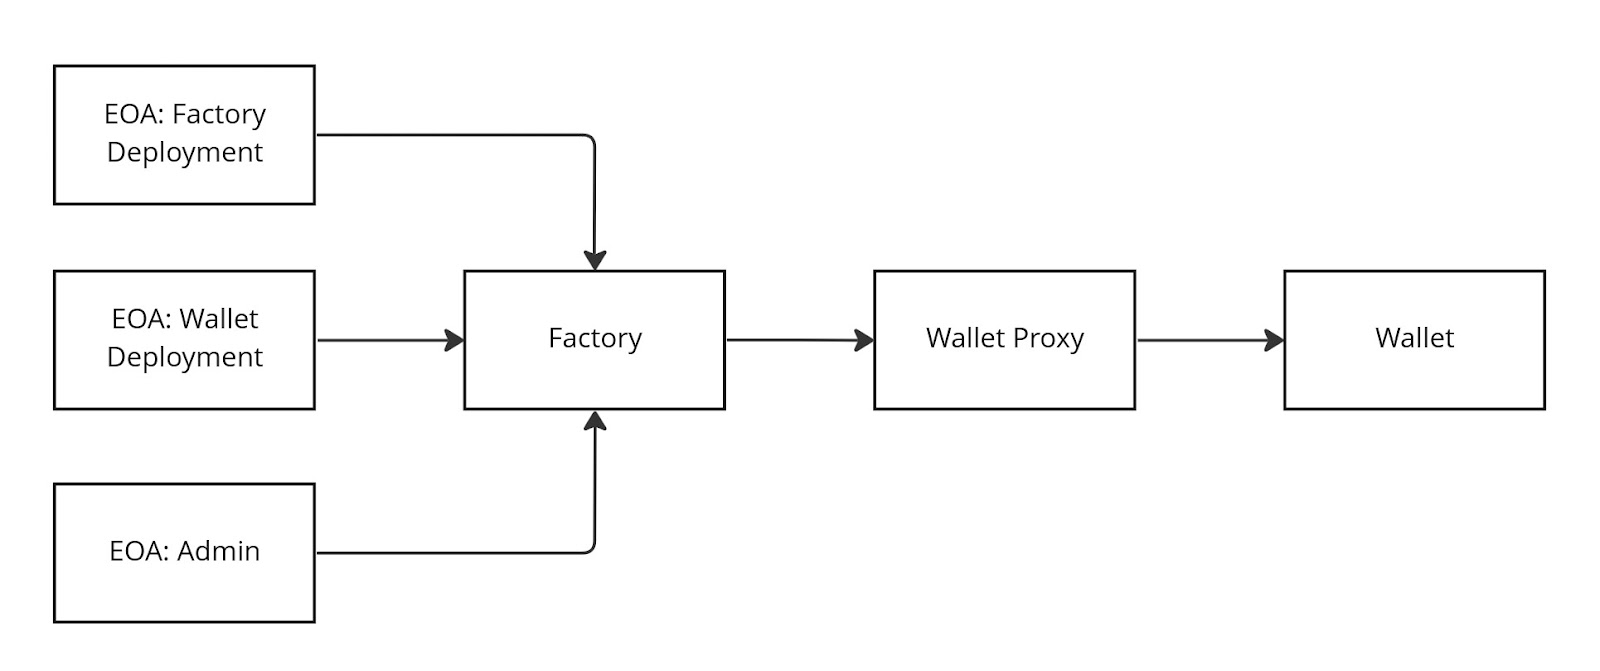
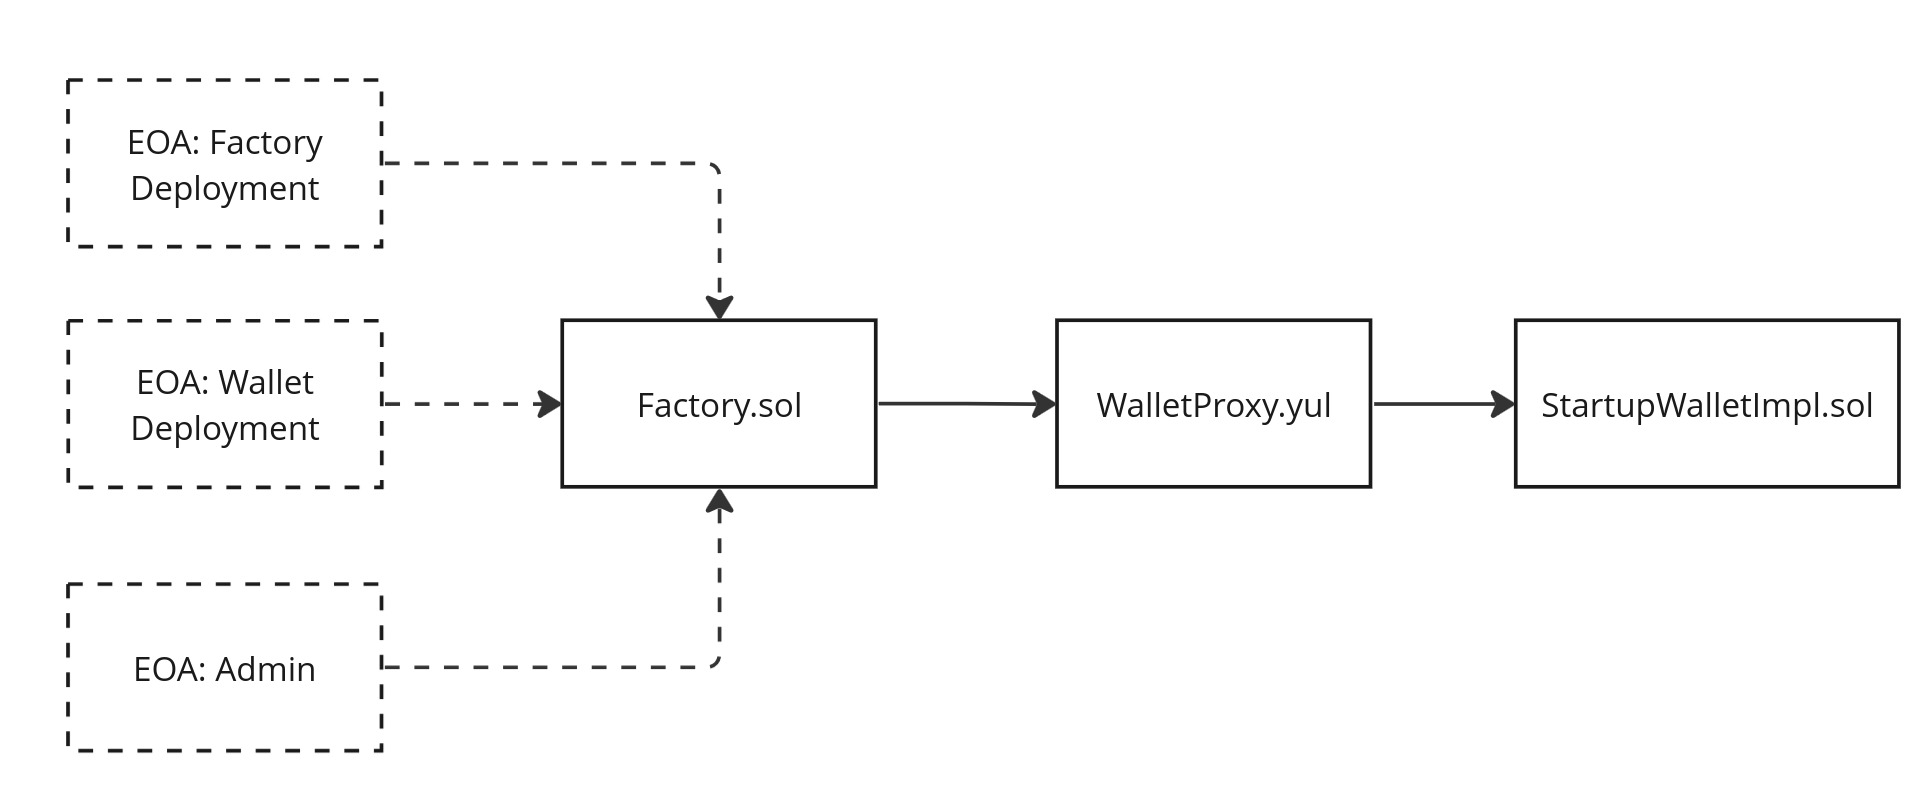
Addressing feedback from review.

diff --git a/AUDITING.md b/AUDITING.md
@@ -6,32 +6,34 @@ As part of building the [Immutable Passport][passport] wallet, we are implementi
 
 The need for SCWs is driven by wanting to make accounts more secure in the case of externally owned accounts private key exfiltration on mobile platforms through malicious apps embedding Passport wallets through WebViews. The extra security comes from the wallets being multisig and verifying transactions using signatures from two parties: Immutable itself and the user. In this case, even when the user key is compromised, exfiltration of funds is still not possible.
 
-Immutable signs transactions after an OTP 2FA, which translates to 2FA security for the user assets. The wallets are counterfactual because since we use a StarkEx L2, the users might not need to interact with the address on EVM networks unless they are bridging their assets. This is, however, not the only use case, as we also want to support users native to zkEVM networks (or other EVM-compatible networks) in the future and not only StarkEx [^1].
+Immutable signs transactions after an OTP 2FA, which translates to 2FA security for the user assets. The wallets are counterfactual because we use a StarkEx L2 and the users might not need to interact with the address on EVM networks unless they are bridging their assets. This is, however, not the only use case, as we also want to support users native to zkEVM networks (or other EVM-compatible networks) not only StarkEx [^1].
 
 [^1]:
     One caveat we have identified is that different theoretically
     EVM-compatible networks have slightly different `CREATE2` behavior, which
     could lead to an user having different addresses in different networks.
 
-To implement this, we are using [0xSequence’s smart contract wallet][0xSequence], with modifications to the [factory contract][upstream-factory-contract] to better support counterfactual addresses and other details related to our implementation, for example access control and emitting events. We also added new supporting infrastructure and functionality:
+To implement this, we have modified the [0xSequence's smart contract wallet][0xSequence] to include the following features:
 
-[0xSequence]: https://github.com/0xsequence/wallet-contracts
-[upstream-factory-contract]: https://github.com/0xsequence/wallet-contracts/blob/master/src/contracts/Factory.sol
-
-- New [MainModule][main-module] to support wallets which can update their list of signers.
-- New [StartupWallet][startup-wallet] which acts as a temporary wallet placeholder that finds the
-  latest implementation at runtime during the execution of the first
-  transaction.
-- A [MultiCall contract][multicall-contract] that enables the SCW deployment to be bundled with its
-  first transaction.
-- [ImmutableSigner][immutable-signer]: a simplified SCW that can be used as a signer for the main
-  0xSequence wallet, enabling key rotation without changing the main wallet
-  signers.
-- An improved [Proxy contract][proxy-contract] that is gas-efficient and enables onchain
-  implementation address retrieval.
+- Modified [Factory contract][upstream-factory-contract] with better
+  counterfactual addresses support.
+- New [MainModule][main-module] to support wallets which can update their list
+  of signers.
+- New [StartupWallet][startup-wallet] which acts as a temporary main wallet
+  module placeholder that finds the latest implementation at runtime during the
+  execution of the first transaction.
+- A [MultiCall contract][multicall-contract] that enables the SCW deployment to
+  be bundled with its first transaction.
+- [ImmutableSigner][immutable-signer]: a simplified SCW that can be used as a
+  signer for the main 0xSequence wallet, enabling key rotation without changing
+  the main wallet signer.
+- An improved [Proxy contract][proxy-contract] that is gas-efficient and enables
+  onchain implementation address retrieval.
 
 A more exhaustive list of changes can be found in the [README.md](README.md).
 
+[0xSequence]: https://github.com/0xsequence/wallet-contracts
+[upstream-factory-contract]: https://github.com/0xsequence/wallet-contracts/blob/master/src/contracts/Factory.sol
 [main-module]: https://github.com/immutable/wallet-contracts/blob/main/src/contracts/modules/MainModuleDynamicAuth.sol
 [startup-wallet]: https://github.com/immutable/wallet-contracts/blob/main/src/contracts/startup/StartupWalletImpl.sol
 [multicall-contract]: https://github.com/immutable/wallet-contracts/blob/main/src/contracts/MultiCallDeploy.sol
@@ -63,7 +65,48 @@ Respectively building contract artifacts and running the test suites.
 
 ## Architecture
 
-![High Level Diagram](docs/img/high-level-diagram.png 'Interactions between the different contracts in this repo')
+![High Level Diagram](docs/img/high-level-diagram.jpg 'Interactions between the different contracts in this repo')
+
+The core functionality of the wallet is executing transactions. It also makes sure that:
+
+- The deployment and the first meta transaction of a wallet are executed as a
+  single root transaction.
+- The deployed wallet implementation is the latest at the time of deployment.
+- The wallet can modify its signers, given authorization from the previous
+  signers.
+- Immutable is one of the signers in all wallets, and is able to rotate its key
+  without changing the signer address.
+
+All of those constraints are displayed in the above diagram. The first ever
+transaction for a smart contract wallet would:
+
+1. An EOA with `EXECUTOR_ROLE` calls the `MultiCallDeploy.sol` contract to deploy
+   the user wallet and execute a transaction.
+2. `Factory.sol` deploys an instance of `WalletProxy.yul` to a deterministic
+   address (the user wallet address) based on its own address, the
+   `StartupWalletImpl.sol` address and the signers to the user SCW.
+3. `MultiCallDeploy.sol` calls the `execute()` function on the
+   `WalletProxy.yul`, which will delegate the call to the `StartupWalletImpl.sol`.
+4. `StartupWalletImpl.sol` then finds the most recent wallet implementation
+   address (`MainModuleDynamicAuth.sol`) using `LatestWalletImplLocator.sol`,
+   updates the proxy to point to the implementation in subsequent calls, and
+   delegates the call again to `MainModuleDynamicAuth.sol`.
+5. `MainModuleDynamicAuth.sol` verifies the singnature in the transaction by
+   checking the recovered signer against the user EOA and by calling
+   `ImmutableSigner.sol` (which is the second signer in the multisig).
+6. The transaction gets executed.
+
+In subsequent transactions the flow is much simpler:
+
+1. An EOA with `EXECUTOR_ROLE` calls the `MultiCallDeploy.sol` to execute a
+   transaction.
+2. `MultiCallDeploy.sol` calls the `execute()` function on the
+   `WalletProxy.yul`, which will delegate the call to the
+   `MainModuleDynamicAuth.sol`.
+3. `MainModuleDynamicAuth.sol` verifies the singnature in the transaction by
+   checking the recovered signer against the user EOA and by calling
+   `ImmutableSigner.sol` (which is the second signer in the multisig).
+4. The transaction gets executed.
 
 ## Incremental Deployment
 
@@ -90,7 +133,7 @@ The wallet factory contract interacts with other contracts and externally owned 
   - Admin: can grant and revoke "Wallet Deployment" permissions to addresses.
 - Contracts
   - Wallet Proxies
-  - Wallet Main Module (or simply _"Wallet"_)
+  - StartupWalletImpl
 
 [^4]:
     Note that we support both cases where those are the same EOA or different
@@ -98,9 +141,9 @@ The wallet factory contract interacts with other contracts and externally owned 
 
 ![Data Flow](docs/img/data-flow.jpg)
 
-The wallet factory contract is a modified version of the 0xSequence factory contract, and the Wallet Main Module is a customized 0xSequence wallet contract.
+The wallet factory contract is a modified version of the 0xSequence factory contract, and the StartupWalletImpl contract takes care of updating the proxy to point to the latest wallet implementation address and delegating to that address.
 
-Upgradeability of the wallet implementation is achieved by having the wallet main module contract update the address used by the Wallet Proxy (which is possible because the wallet proxy uses a delegate call).
+Upgradeability of the wallet implementation is achieved by having the wallet main module contract (i.e.: the wallet implementation) update the address used by the wallet proxy (which is possible because the wallet proxy uses a delegate call).
 
 Upgradeability of signers is achieved by storing a hash of the signers in the wallet storage and allowing the wallet to call itself to change the stored value.
 
